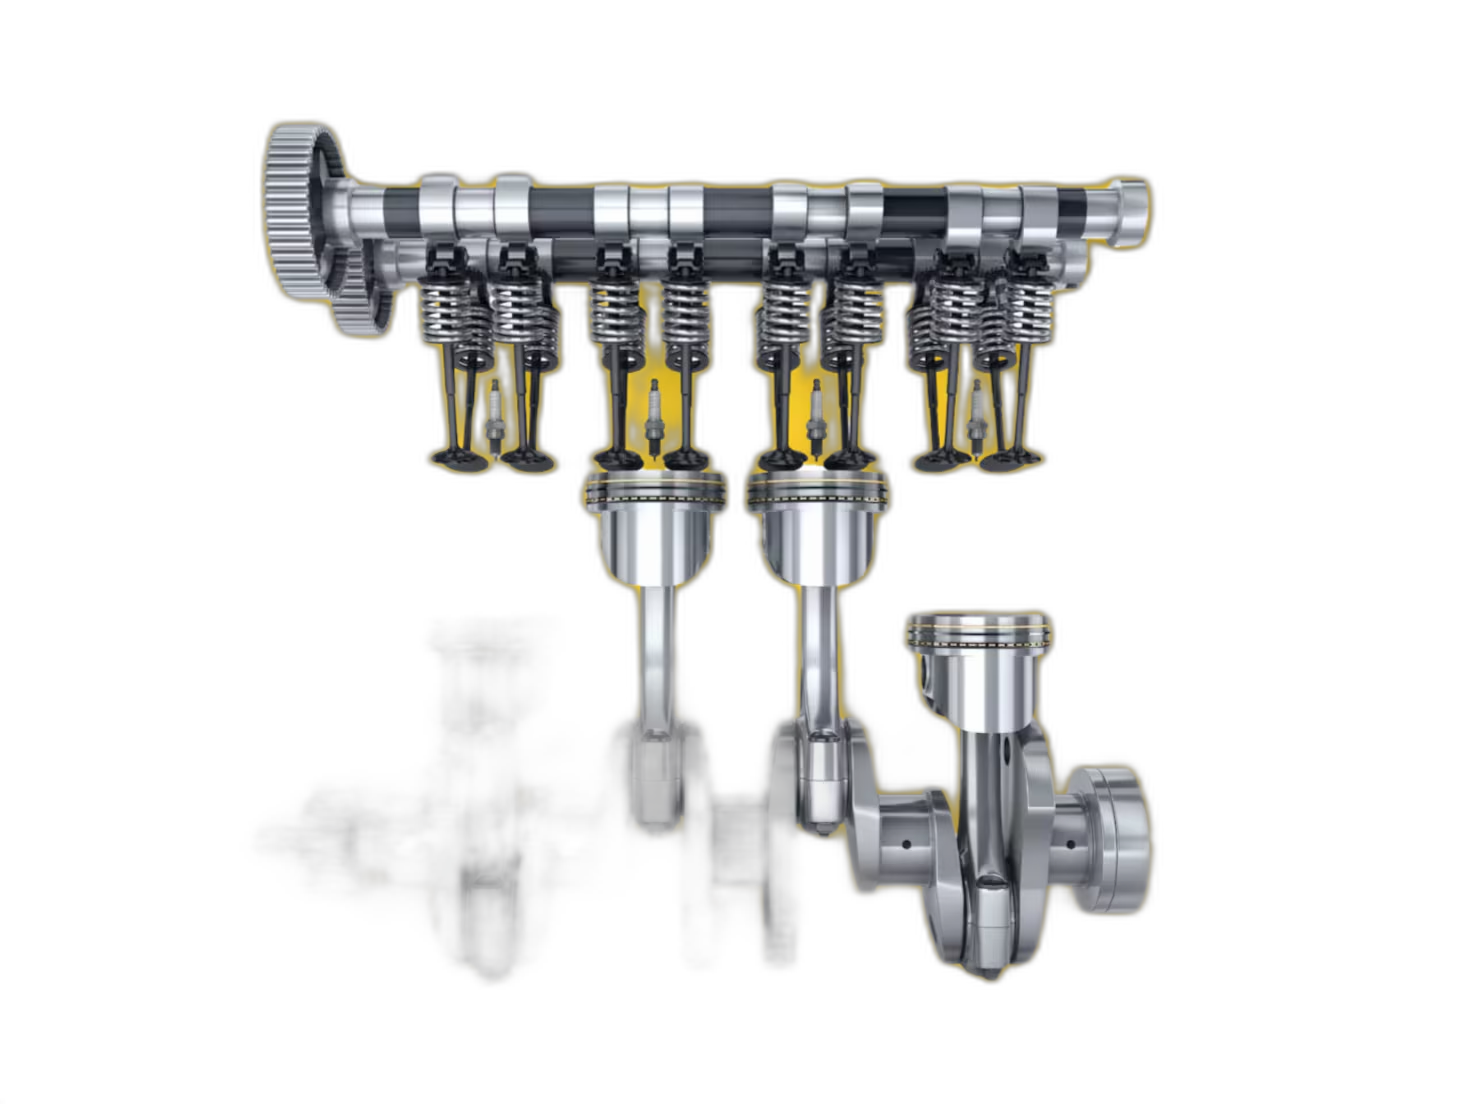
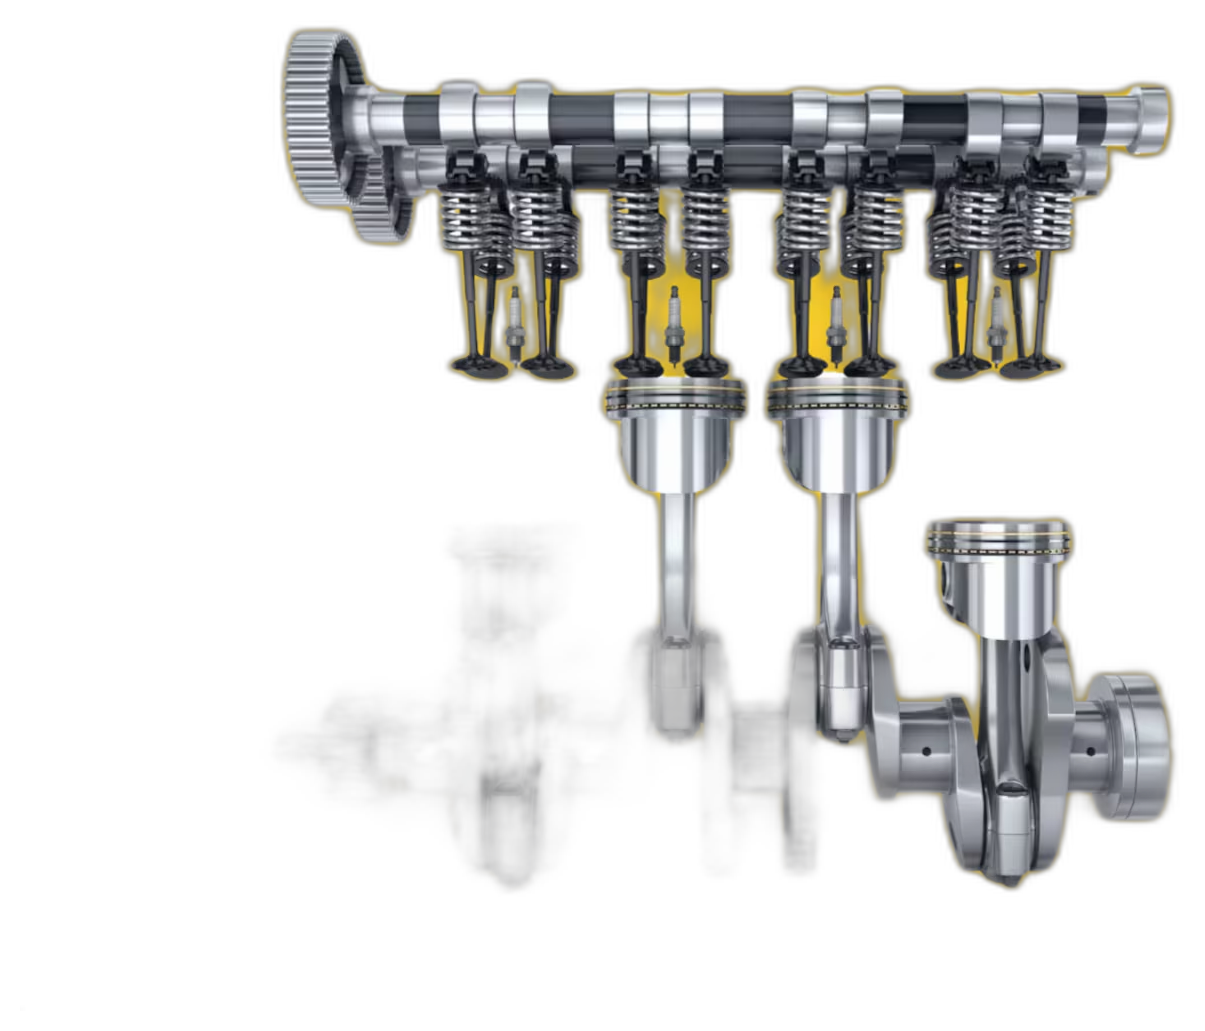
Tu mensaje

diff --git a/index.html b/index.html
@@ -755,7 +755,7 @@
       inset: 0;
       background-size: cover;
       background-position: center;
-      transition: transform 0.6s cubic-bezier(0.4, 0, 0.2, 1), background-image 0.5s ease-in-out;
+      transition: transform 0.6s cubic-bezier(0.4, 0, 0.2, 1), opacity 0.8s ease-in-out;
     }
     .quick-card img {
       width: 100%;
@@ -1302,7 +1302,8 @@
         </div>
       </a>
       <a href="tiendas.html" class="quick-card">
-        <div class="tiendas-quick-bg" id="tiendas-quick-img" style="background-image: url('img/tiendas/Sucursal A0.jpg.jpeg');"></div>
+        <div class="tiendas-quick-bg" id="tiendas-quick-img-back" style="background-image: url('img/tiendas/Sucursal A1.jpg.jpeg'); z-index: 0; opacity: 1;"></div>
+        <div class="tiendas-quick-bg" id="tiendas-quick-img" style="background-image: url('img/tiendas/Sucursal A0.jpg.jpeg'); z-index: 1;"></div>
         <div class="quick-overlay">
           <div class="quick-label">Encuéntranos</div>
           <div class="quick-title">TIENDAS</div>
@@ -1375,9 +1376,10 @@
       localStorage.setItem('theme', isDark ? 'dark' : 'light');
     });
 
-    // Tiendas Quick Card Carousel
-    const tiendasImg = document.getElementById('tiendas-quick-img');
-    if (tiendasImg) {
+    // Tiendas Quick Card Carousel - Smooth Crossfade
+    const frontImg = document.getElementById('tiendas-quick-img');
+    const backImg = document.getElementById('tiendas-quick-img-back');
+    if (frontImg && backImg) {
       const heroImages = [
         'img/tiendas/Sucursal A0.jpg.jpeg',
         'img/tiendas/Sucursal A1.jpg.jpeg',
@@ -1397,13 +1399,25 @@
         'img/tiendas/Sucursal A100.jpg.jpeg'
       ];
       let currentImgIndex = 0;
-      
-      // Preload images
-      heroImages.forEach(src => new Image().src = src);
+
+      // Preload all images
+      heroImages.forEach(src => { const img = new Image(); img.src = src; });
 
       setInterval(() => {
-        currentImgIndex = (currentImgIndex + 1) % heroImages.length;
-        tiendasImg.style.backgroundImage = `url('${heroImages[currentImgIndex]}')`;
+        const nextIndex = (currentImgIndex + 1) % heroImages.length;
+
+        // Load next image into back layer and bring it to front with fade
+        backImg.style.backgroundImage = `url('${heroImages[nextIndex]}')`;
+        backImg.style.zIndex = '2';
+        backImg.style.opacity = '1';
+
+        // After fade completes, update front layer and reset back layer
+        setTimeout(() => {
+          frontImg.style.backgroundImage = `url('${heroImages[nextIndex]}')`;
+          backImg.style.opacity = '0';
+          backImg.style.zIndex = '0';
+          currentImgIndex = nextIndex;
+        }, 850);
       }, 5000);
     }
   </script>